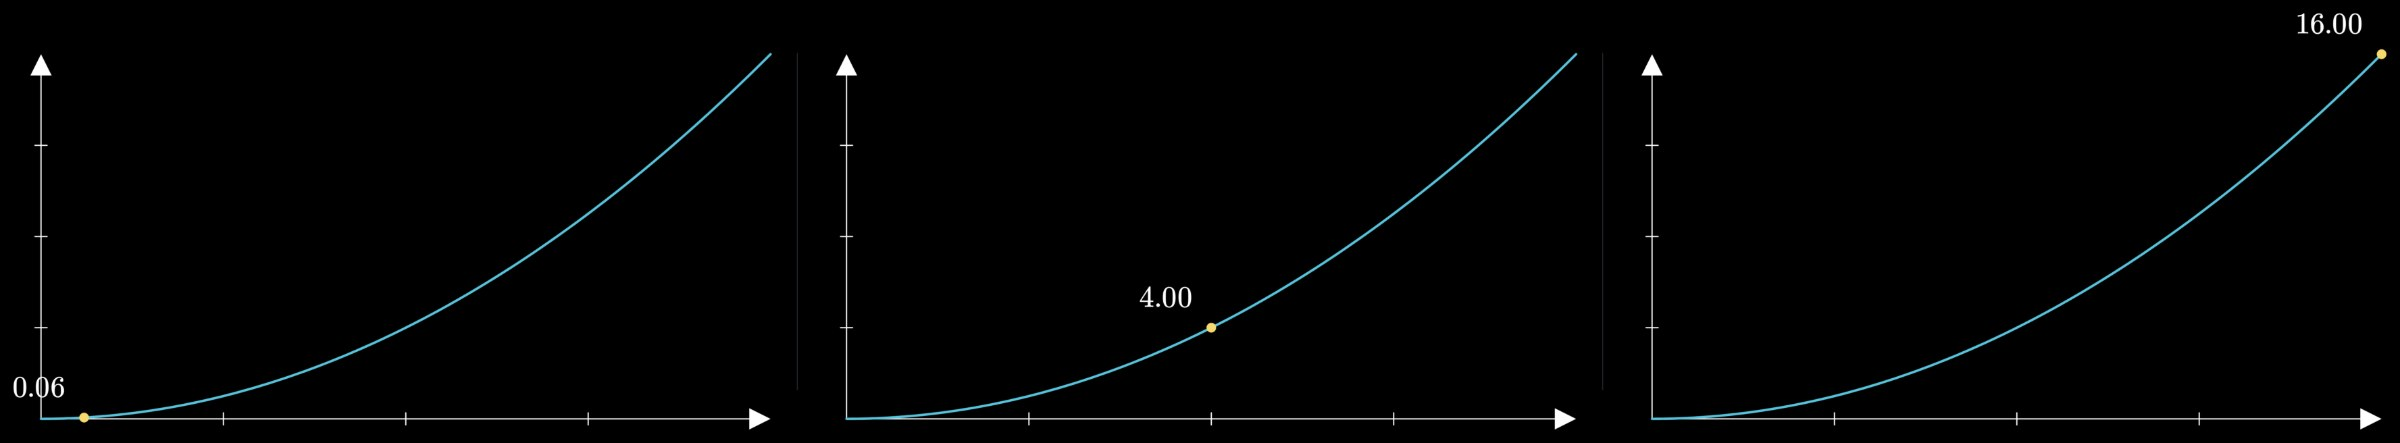
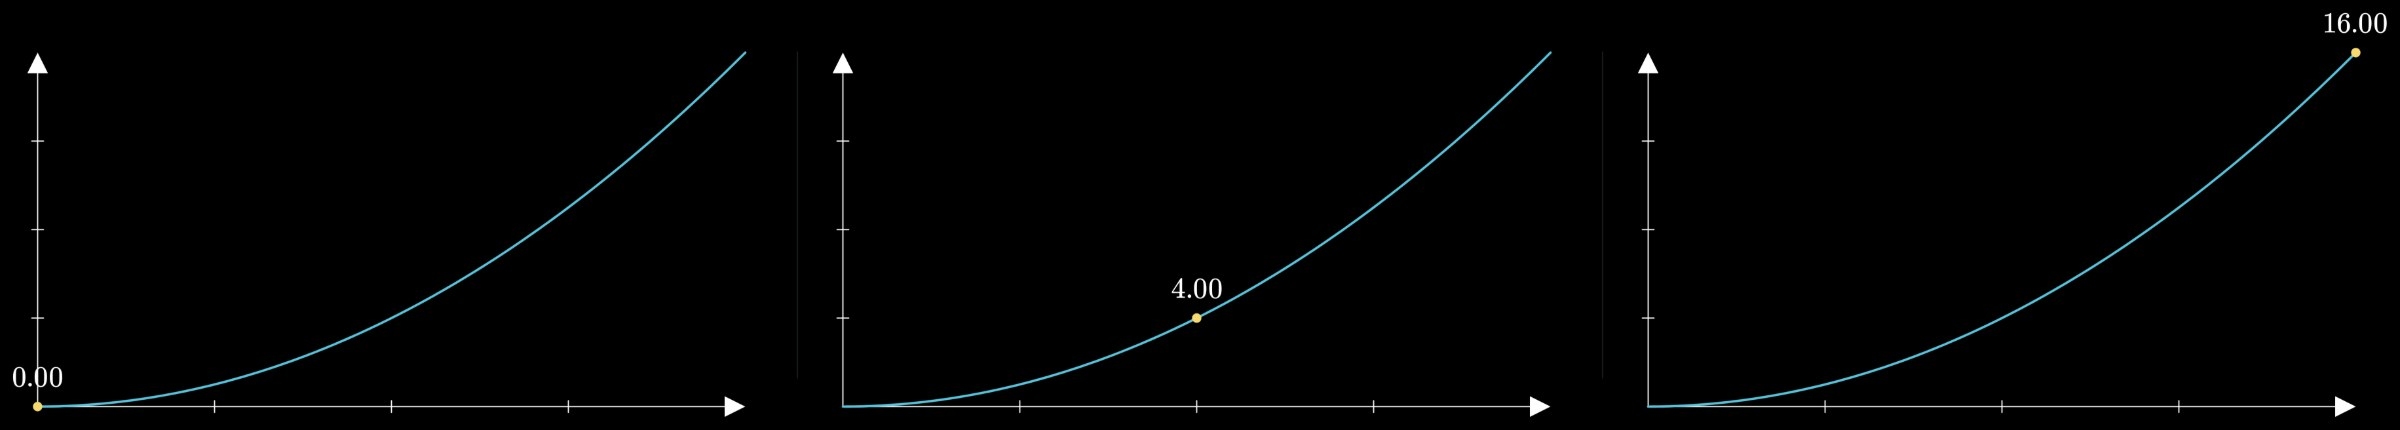
README: the moving dot's value sits above it, so it stays in the picture from 0 to 16; its strip starts at x = 0

diff --git a/scripts/build_gallery.py b/scripts/build_gallery.py
@@ -273,7 +273,7 @@ def gif(out, target, seconds=3.0, fps=15):
 # scaled to the same height.
 STRIPS = [
     ("readme-hello", "hello", [(None, 1.0), (None, 1.5), (None, 2.0), (None, 4.0)], True),
-    ("readme-follow", "follow", [(None, 1.7), (None, 2.5), (None, 4.0)], True),
+    ("readme-follow", "follow", [(None, 1.0), (None, 2.5), (None, 4.0)], True),
     ("readme-pythagoras", EXAMPLES / "pythagoras.py", [("Conclusion", -0.05), (None, -0.01)], False),
 ]
 

diff --git a/README.md b/README.md
@@ -72,7 +72,7 @@ x = ValueTracker(0)
 axes = Axes(x_range=[0, 4, 1], y_range=[0, 16, 4])
 curve = axes.plot(lambda t: t ** 2, color=BLUE)
 dot = always_redraw(lambda: Dot(axes.c2p(x.get_value(), x.get_value() ** 2), color=YELLOW))
-value = always_redraw(lambda: DecimalNumber(x.get_value() ** 2).next_to(dot, UL))
+value = always_redraw(lambda: DecimalNumber(x.get_value() ** 2).next_to(dot, UP))
 
 play(Create(axes), Create(curve))
 add(dot, value)
@@ -80,7 +80,7 @@ play(x.animate.set_value(4), run_time=3)
 wait()
 ```
 
-<img src="docs/images/readme-follow.jpg" width="800" alt="Three moments of the example: a yellow dot rides up the curve y = x squared, with its value, 0.06, then 4.00, then 16.00, written beside it">
+<img src="docs/images/readme-follow.jpg" width="800" alt="Three moments of the example: a yellow dot rides up the curve y = x squared, with its value, 0.00, then 4.00, then 16.00, written above it">
 
 They are worked out in the browser on every frame, so dragging the scrubber to any moment shows exactly what plays there. [Updaters](docs/updaters.md) has the rest.
 
